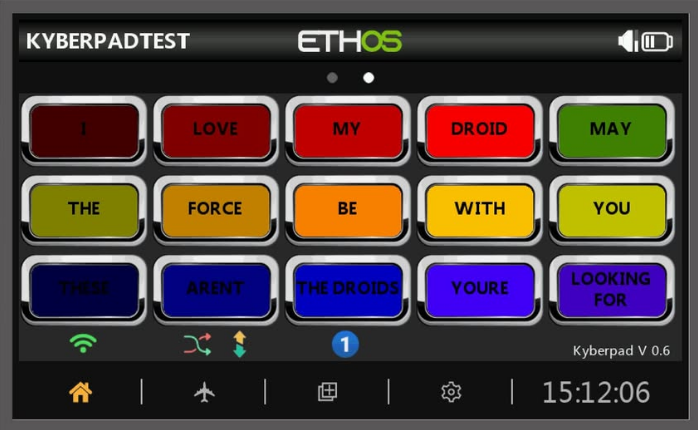
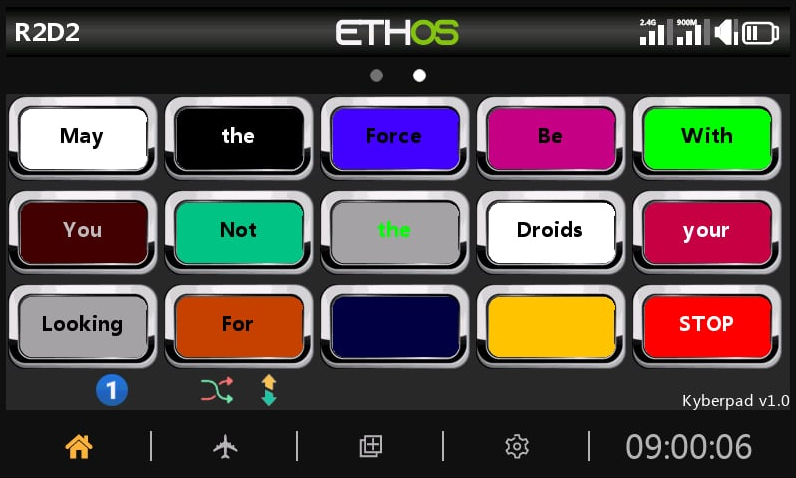
Changes to Kyberpad

diff --git a/docs/manual/software/kyberpad.md b/docs/manual/software/kyberpad.md
@@ -1,11 +1,14 @@
-# Kyberpad
+# Kyberpad V1.0
 ## Kyberpad Overview
 
-The Kyberpad LUA script is software made for FrSky remotes using the ETHOS operating system. It removes the need to modify the remote to add physical button PADs.
+The Kyberpad is designed to work with the Kyber Control System. It replace the physical 15 buttons board and remove the need to modify your remote.
+
+It's a LUA script you install on your Tandem family remote that display the 15 buttons pad on screen and let you setup the name and color for each buttons. 
+
+It interact with the Kyber controller via the remote touch screen. It support a toggle switch to enable a second screen that give you access to another 15 buttons.
 
 ### Main Interface
 ![Kyberpad Main Interface](../../assets/kyberpad/kyberpad_main.png)
-*The main Kyberpad interface showing the button layout and status display*
 
 !!! info "Interface Features"
     * **Button Layout**
@@ -19,14 +22,20 @@ The Kyberpad LUA script is software made for FrSky remotes using the ETHOS opera
         - Debug information
         - Dual battery indicators from Telemetry
 ---
+
+### Requirements:
+- FrSky X18, X18S, X20, X20S, X20HD, XE and Twin X remote are supported.
+- Your remote need to be at the latest firmware version. 
+- Kyber Controller board is required. You can buy one directly from Matt Hobbs.
+     - https://www.facebook.com/groups/1341505756182087
+
+!!! note "ETHOS Version Support"
+    Latest firmware version: 1.6.3 (as of 11/25)
+
 ## Radio and Receiver Update
 
 ### 1. Check Firmware Version
-!!! note "Current Version"
-    Latest firmware version: 1.6.3 (as of 11/25)
-
 ![Firmware Version Check](../../assets/kyberpad/remote_firmware_check.png)
-*Location of the firmware version in your radio's settings*
 
 ### 2. Update System
 If your firmware is outdated:
@@ -37,11 +46,9 @@ If your firmware is outdated:
 
 2. **Update Radio Firmware**
 ![Ethos Suite Interface](../../assets/kyberpad/remote_ethos_suite.png)
-*The Ethos Suite interface for updating your radio*
 
 3. **Update Receiver**
-!!! tip "Receiver Update"
-    Follow the [Receiver Update Guide](https://youtu.be/j7TQgJl_BXE?si=59ew4u_Aw6H1Fmrk) to flash your receiver through the transmitter's USB connection
+     - Follow the [Receiver Update Guide](https://youtu.be/j7TQgJl_BXE?si=59ew4u_Aw6H1Fmrk) to flash your receiver
 
 ---
 
@@ -49,12 +56,19 @@ If your firmware is outdated:
 
 ### Installing the LUA widget
 1. Download and extract the Kyberpad zip file
-2. On your radio's SD card:
-    - Create a new folder named "Scripts"
-    - Copy the extracted Kyberpad files into this folder
+     - Write an email to Stephane Beaulieu stefebeaulieu@gmail.com to get the Kyberpad software 
+2. On your remote
+     - Plug the USB cable to your computer.
+     - Chose Ethos Suite on the remote screen
+3. On your remote SD card:
+    - Create a new folder named "Scripts" (if not present)
+    - Copy the extracted Kyberpad files into "Scripts"
+4. Restart Remote    
+    - Unplug USB cable
+    - Long press power button (shutdown)
+    - Press again to turn it back on
 
 ![SD Card Setup](../../assets/kyberpad/remote_SDcard.png)
-*Location of the Scripts folder on your radio's SD card*
 
 ---
 
@@ -64,90 +78,124 @@ If your firmware is outdated:
 
 1. **Choose Model Type**
 ![Model Selection](../../assets/kyberpad/remote1.png)
-*Select "Other" as your model type - this avoids unnecessary default settings*
+     - Select "Other" as your model type - this avoids unnecessary default settings
 
 2. **Name Your Model**
 ![Model Naming](../../assets/kyberpad/remote2.png)
-*Give your model a memorable name*
+     - Give your model a memorable name
 
 ### 2. Enable Kyberpad LUA Source
 
 1. **Access Model Settings**
 ![Model Page Access](../../assets/kyberpad/remote3.png)
-*Tap the Airplane icon on the lower screen to access model settings*
+     - Tap the Airplane icon on the lower screen to access model settings
 
 2. **Enable LUA**
 ![LUA Settings](../../assets/kyberpad/remote4.png)
-*Swipe left to page 2, then tap the LUA box*
+     - Swipe left to page 2, then tap the LUA box
 
-3. **Activate Kyberpad**
+3. **Activate Kyberpad Source**
 ![Kyberpad Source](../../assets/kyberpad/remote5.png)
-*Enable the Kyberpad Source option*
+     - Enable the Kyberpad Source option
 
 ### 3. Configure Widget
 
 1. **Add Widget**
-![Widget Addition](../../assets/kyberpad/remote6.png)
-*Tap the middle lower button (+ in box), then tap + at top left*
+![Widget addition screen showing plus icon in box button at bottom center and plus button at top left of interface](../../assets/kyberpad/remote6.png)
+     - Tap the middle lower button (+ in box), then tap + at top left
 
 2. **Set Display Mode**
-![Full Screen Selection](../../assets/kyberpad/remote7.png)
-*Select "Full Screen" for optimal display*
+![Display mode selection menu with Full Screen option highlighted in the ETHOS interface](../../assets/kyberpad/remote7.png)
+     - Select "Full Screen" for optimal display
 
 3. **Select Widget Type**
-![Widget Selection](../../assets/kyberpad/remote8.png)
-*Click "Change widget"*
+![Widget configuration screen showing Change widget button in the center of the display](../../assets/kyberpad/remote8.png)
+     - Click "Change widget"
 
 4. **Choose Kyberpad**
-![Kyberpad Selection](../../assets/kyberpad/remote9.png)
-*Scroll down and select Kyberpad from the list*
+![Scrollable widget list with Kyberpad option visible among other available widgets](../../assets/kyberpad/remote9.png)
+     - Scroll down and select Kyberpad from the list
 
 ### 4. Configure Control Switches
 
 1. **Set Page Toggle Switch**
-![Toggle Switch Setup](../../assets/kyberpad/remote10.png)
-*Configure the switch for changing Kyberpad pages:*
-- Open the Kyberpad widget
-- Find the Toggle source dropdown
-- Select a 2 or 3-position switch for page navigation
+![Kyberpad settings screen displaying Toggle Source: Button Pad dropdown menu with down arrow](../../assets/kyberpad/remote10.png)
+     - Tap on "Toggle Source: Button Pad" down arrow
 
-2. **Configure Random Mode Switch**
-![Random Mode Setup](../../assets/kyberpad/remote11.png)
-*Set up the random mode switch using the same process*
+2. **Select Toggle Switch**
+![Radio transmitter interface showing physical toggle switches ready for assignment](../../assets/kyberpad/remote11.png)
+     - Toggle the switch you want to use on the remote
 
-### 5. Configure Mix Controls
+3. **Configure Other Switch**
+    - Use the same process to setup random mode and and wifi switch
 
-!!! note "Channel Setup"
-    This section configures how Kyberpad communicates with your system.
+### 5. Configure Buttons
+
+1. **Buttons Label**
+![Button configuration screen showing Label Texte input field with on-screen keyboard interface](../../assets/kyberpad/remote19.png)
+     - Tap on "Label Texte" to bring up the keyboard
+     - Label your Button (use "_" to)
+
+2. **Buttons Color**
+![Button customization interface displaying color picker or selection options for Button 1](../../assets/kyberpad/remote20.png)
+     - Use "FG" to change the color of your text
+     - Use "BG" to change the color of the background
+
+3. **Buttons Value**
+![PWM value configuration screen showing numerical input field for button signal settings](../../assets/kyberpad/remote21.png)
+     - You can find and edit the button values under the button labels (You should not need to edit the button values)
+
+### 6. Other
+
+1. ***Haptic Feedback***
+![Debug settings screen with toggle option to enable debug information display](../../assets/kyberpad/remote22.png)
+     - Enable haptic feedback on button press
+
+2. ***Debug***
+![Debug settings screen with toggle option to enable debug information display](../../assets/kyberpad/remote23.png)
+     - Display buttons pwm value on screen
+
+3. **Battery Indicator**
+![Battery voltage indicator configuration screen showing telemetry source selection for bottom status line display](../../assets/kyberpad/remote23.png)
+     - Configure battery voltage Indicator on bottom line of the screen
+
+!!! note "To Do"
+    Add Screenshot and how to.
+
+### 6. Configure Mix Controls
+
+This section configures how Kyberpad communicates with your system.
 
 1. **Access Mix Settings**
 ![Mix Menu Access](../../assets/kyberpad/remote12.png)
-*To begin mix configuration:*
-- Tap the airplane button on the main screen
-- Select "Mixes" from the menu
+     - Tap the airplane button on the main screen
+     - Select "Mixes" from the menu
 
 2. **Create New Mix**
 ![Mix Type Selection](../../assets/kyberpad/remote13.png)
-*Select "Free Mix" as your control type*
+     - Select "Free Mix" as your control type
 
 3. **Name the Mix**
 ![Mix Naming](../../assets/kyberpad/remote14.png)
-*Enter "Kyberpad" as the mix name for easy identification*
+     - Enter "Kyberpad" as the mix name for easy identification
 
 4. **Configure Source**
 ![Source Selection](../../assets/kyberpad/remote15.png)
-*Set up the input source:*
-- Open the Source dropdown menu
-- Scroll down to find the LUA option
-- Select LUA as your source
+     - Set up the input source:
+         - Open the Source dropdown menu
+         - Scroll down to find the LUA option
+         - Select LUA as your source
 
 5. **Verify Source Selection**
 ![Source Verification](../../assets/kyberpad/remote16.png)
-*Note: It's normal for the Kyberpad source to appear grayed out*
+     - Note: It's normal for the Kyberpad source to appear grayed out
 
 6. **Set Output Channel**
 ![Channel Selection](../../assets/kyberpad/remote17.png)
-![Final Configuration](../../assets/kyberpad/remote18.png)
+     - Click on "Output1", Channel list will appear
+
+     ![Final Configuration](../../assets/kyberpad/remote18.png)
+         - Name and configuration will be assigned to the selected channel
 
 !!! info "Channel Selection Guide"
     Choose your output channel based on your setup:
@@ -165,3 +213,48 @@ If your firmware is outdated:
      2. Use the same process as above
      3. Use clear, descriptive names
      4. Document your channel assignments
+
+!!! question "Change Log"
+    - **Change to Version 04**
+         - Add support to : X18, X18S, XE and Twin X remotes
+         - Change the default name of Btn18.png to btn01.png
+    - **Change to Version 05**
+         - Added Multi Model Support
+    - **Change to Version 06**
+         - Added WiFi ON/OFF icon on the bottom line
+         - Added Random Toggle Position on the bottom line
+         - Added PAD Toggle Position on the bottom line
+    - **Change to Version 07**
+         - Added Support for Battery 1 and 2 Voltage
+         - Changed Screen Layout for X20 and X18 Family
+    - **Change to Version 08**
+         - Added Support for Number Field for Channel PWM Output
+         - Added Release state button value
+         - Changed the Configuration Layout for each Buttons
+    - **Change to Version 09**
+        
+         **!! Thanks to Frsky Ben for it's great contribution !!**
+
+         - Rewrite of the code to support new ETHOS version 1.6.x
+         - Changed config file to read model path instead of model name to prevent conflicts from cloned models with same model name
+         - Consolidated Lua Kyberpad Source into main script
+         - Add support for X18RS
+         - Remove widget title to prevent hidden bottom icons
+         - Consolidated config vars for button settings to arrays
+         - Add for loop iterations for drawing functions
+         - Add inline if/then for several drawing functions
+         - Add error handling for file io read/write
+         - Fixed config file write to remove unnecessary new lines in button text
+         - Add checks for Lua Kyberpad Source disabled
+         - Fixed runonce and highlighttext variable typos
+         - Changed button text multiline to split on dot instead of space
+         - Add nil checks for battery function to resolve nil value errors
+         - Battery Alert configuration nested into panel
+         - Button Values configuration nested into panel
+         - Button color and text configuration display cleaned up
+         - Add debug option to display pressed button value percent
+         - Changed code commenting to be compatible with LDoc
+    - **Change to Version 10**
+         - Changed widget parameter names to use model filename for uniqueness to prevent conflicts from multiple model files using Kyberpad lua
+         - Add debug option to enable or disable Haptic button feedback
+         - Bug Fixes

diff --git a/docs/manual/software/web-interface.md b/docs/manual/software/web-interface.md
@@ -254,7 +254,7 @@ The RC Settings page is the central hub for configuring your radio control chann
 ![Button Value Setup](../../assets/web_interface/web_RC_Buttons.png){ align=center width=60% }
 
 - **Channel Values**
-    - Display selected RC hannel
+    - Display selected RC channel
     - Monitor SBUS values for each channel
     - Values shown in real-time
 
@@ -575,12 +575,6 @@ Each position (UP/CENTER/DOWN) shares these configuration options:
     Add pictures and description
 
 ---
-
-
-
-
-
-
 
 ## WiFi Configuration
 
